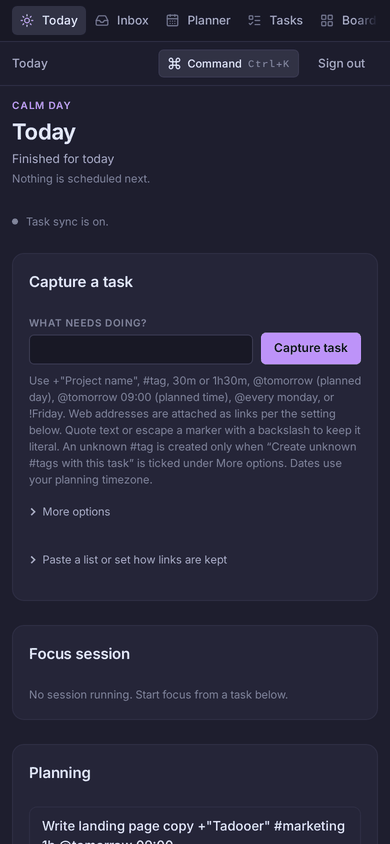
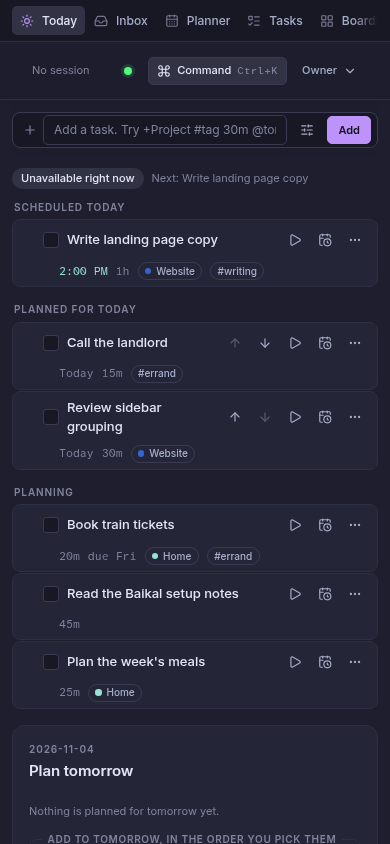
docs: describe the workspace shell, task row and add bar; phone row layout; config test for taskDelete (#194)

diff --git a/apps/web/src/styles.css b/apps/web/src/styles.css
@@ -1983,7 +1983,8 @@
   .sidebar-brand {
     position: relative;
   }
-  .sidebar-collapse {
+  /* Outranks the (0,1,1) global button:not([data-slot]) rule. */
+  .sidebar-brand .sidebar-collapse {
     margin-left: auto;
     display: inline-flex;
     align-items: center;
@@ -1998,7 +1999,7 @@
     color: var(--subtext-2);
     cursor: pointer;
   }
-  .sidebar-collapse:hover {
+  .sidebar-brand .sidebar-collapse:hover {
     background: var(--surface-0);
     color: var(--text);
   }
@@ -2188,7 +2189,7 @@
     gap: 0.125rem;
   }
 
-  .sync-dot-trigger {
+  .header .sync-dot-trigger {
     display: inline-flex;
     align-items: center;
     justify-content: center;
@@ -2201,7 +2202,7 @@
     background: none;
     cursor: pointer;
   }
-  .sync-dot-trigger:hover {
+  .header .sync-dot-trigger:hover {
     background: var(--surface-0);
   }
   .sync-dot {
@@ -2325,7 +2326,7 @@
     padding: 0.2rem 0.5rem 0.2rem 0.375rem;
     cursor: default;
   }
-  .task-row__chevron {
+  .task-row .task-row__chevron {
     width: 1rem;
     height: 1rem;
     min-height: 0;
@@ -2340,11 +2341,11 @@
     cursor: pointer;
     border-radius: var(--radius-sm);
   }
-  .task-row__chevron:hover {
+  .task-row .task-row__chevron:hover {
     color: var(--text);
     background: var(--surface-1);
   }
-  .task-row__chevron--empty {
+  .task-row .task-row__chevron--empty {
     cursor: default;
   }
   .task-row__chevron-icon {
@@ -2817,6 +2818,34 @@
     .offline-capture {
       flex-direction: column;
       align-items: stretch;
+    }
+    /* Issue #194: on a phone the title wins; metadata wraps under it and the
+       actions stay visible, since there is no hover. */
+    .task-row__main {
+      flex-wrap: wrap;
+      padding-block: 0.375rem;
+    }
+    .task-row__title {
+      flex: 1 1 8rem;
+      white-space: normal;
+      overflow-wrap: anywhere;
+    }
+    .task-row__meta {
+      flex: 1 1 100%;
+      order: 10;
+      flex-wrap: wrap;
+      white-space: normal;
+      padding-left: 2.5rem;
+      row-gap: 0.25rem;
+    }
+    .task-row__actions {
+      opacity: 1;
+    }
+    .task-row__children {
+      padding-left: 1rem;
+    }
+    .add-task-bar {
+      top: 0;
     }
 
     /* Phone widths: a long title or address wraps instead of widening the

diff --git a/packages/import-export/src/super-productivity-config.test.ts b/packages/import-export/src/super-productivity-config.test.ts
@@ -152,6 +152,8 @@ describe("globalConfig classification (ADR 0030)", () => {
         "command_bar.open": "Shift+F",
         "sync.now": "Ctrl+S",
         "navigate.settings": null,
+        // Issue #194: taskDelete maps to the selection's delete action.
+        "task.delete": "Backspace",
       },
     });
     expect(mapped?.planning).toEqual({
@@ -184,7 +186,7 @@ describe("globalConfig classification (ADR 0030)", () => {
         detail.includes("task.toggle_done collides"),
       ),
     ).toBe(true);
-    expect(mapped?.counts).toMatchObject({ shortcuts: 6, planning: 5 });
+    expect(mapped?.counts).toMatchObject({ shortcuts: 7, planning: 5 });
     const excluded = findings.filter(
       ({ code }) => code === "config_field_excluded",
     );

diff --git a/docs/design/README.md b/docs/design/README.md
@@ -1,6 +1,7 @@
 # Tadooer design system
 
-Status: adopted 2026-09-23 for the web app; identity section added 2026-10-02.
+Status: adopted 2026-09-23 for the web app; identity section added 2026-10-02;
+workspace shell, task row and add bar rules added 2026-11-03 (issue #194).
 The stylesheet `apps/web/src/styles.css` is the source of truth for values;
 `tokens.css` beside this file restates them as plain custom properties, and
 `examples/01-specimen.html` shows them without the app. The Studio brand pack
@@ -175,8 +176,61 @@ cached or empty state rather than a placeholder that never resolves.
 
 ## Component rules
 
-- Pages use `PageHeader`, `Card`, `SectionHeading`, and `EmptyState`; controls
-  use the primitives in `components/ui`.
+- The frame (issue #194) is a desktop layout: a 15rem sidebar on `--mantle`
+  that collapses to a 3rem icon rail (remembered per browser under
+  `tadooer.sidebar:collapsed`), a 2.75rem header spanning the main and
+  detail columns, the main column at 56rem, and a 22rem detail column on
+  `--surface-0` that exists only while one task is selected. Below 64rem the
+  sidebar is the scrolling row and the detail panel is a bottom `Sheet`. The
+  components are `WorkspaceShell`, `Sidebar`, `Header`, `FocusStrip`,
+  `SyncIndicator` and `TaskDetailPanel` under `components/shell`.
+- The sidebar lists Today, Inbox, Planner, Tasks, Boards and Habits, then
+  Projects and Tags as navigable contexts (`/projects/<id>`, `/tags/<id>`;
+  the Tasks list with that filter fixed and its dropdown hidden), then
+  Records and Setup (issue #175). Today and Inbox carry open-task counts;
+  every project and tag shows its swatch and count. Groups remember their
+  state under `tadooer.sidebar-group:<id>` and open while they hold the
+  current location. The command bar lists the same contexts.
+- The header holds the view title, the focus strip (title, countdown in
+  `--pink` with a 1.5px underline while running, pause, break and complete;
+  "No session" otherwise; a follower sees Take over), one sync dot coloured
+  by the worst of task sync, live updates and Baikal with the three states
+  as text in a status region and in a popover, a conflict badge only when
+  conflicts need action, the command bar trigger and the account menu.
+- Task rows (`TaskRow`) are one line at 2.25rem: a round complete toggle,
+  the title, metadata in mono (`Overdue` or planned time, estimate as
+  `45m`, `due Fri` within a week), the project chip with its swatch, up to
+  three tag chips with `+n`, and actions that appear on hover, focus or
+  selection: Start focus (a `Running` badge when the task owns the session),
+  Schedule (a popover with the time block form, only while calendar actions
+  are available), day-order arrows where a saved order exists, and a menu
+  with Edit title, Add child task, Save as template, Archive and Delete.
+  Clicking the body selects (`--primary-tint` fill, 2px `--purple` bar,
+  `aria-selected`, roving tab stop); Shift extends and Ctrl toggles; two or
+  more selected rows replace the add bar with the bulk bar (Complete,
+  Archive, Delete, Move to project), which runs the per-task writes in order
+  and names the first failure. Double-click, Enter or the menu edit the title
+  in place; Escape restores it. Children nest one level under a chevron;
+  a child whose parent is filtered out renders at top level without indent.
+- The add bar (`AddTaskBar`) is one input pinned to the top of Today, Inbox,
+  Tasks and the context routes, with More for notes, estimate, new-tag
+  consent and the markers switch. Markers are on by default while online
+  (issue #184) and remembered under `tadooer.capture:markers`; offline, the
+  bar says "Offline: plain capture". "Paste a list" opens a dialog; the
+  captured-links preference lives in Settings.
+- The detail panel shows the selected task: an in-place title, Start focus,
+  then Plan (planned day and time, time block, estimate and deadline),
+  Organize (project, tags, placement), Notes (rendered, with an edit
+  toggle), Child tasks, Checklist, Links and Recurrence (the last two need a
+  session token), and a footer with Save as template, Archive and Delete.
+  Escape or the close button clears the selection.
+- Keyboard: ArrowUp and ArrowDown move the selection through the visible
+  order, Enter edits the title, D completes, Y toggles focus, S opens the
+  schedule in the panel, Shift+N adds a child, O opens details, Delete
+  deletes, Escape clears, Shift+A focuses the add bar. Every binding is
+  owner-editable in Settings; unmodified keys stay inert in inputs.
+- Other pages use `PageHeader`, `Card`, `SectionHeading`, and `EmptyState`;
+  controls use the primitives in `components/ui`.
 - Use `Button` variants for primary, secondary, ghost, and destructive actions.
   Set `type="button"` for actions inside a form that do not submit it.
 - `NativeSelect` preserves native form submission. Named `Checkbox` controls
@@ -184,20 +238,14 @@ cached or empty state rather than a placeholder that never resolves.
 - Associate each `FieldLabel` with a unique control ID.
 - Use `Alert` for feedback and `Badge` for compact state labels. Preserve
   explicit status and alert roles where they convey asynchronous updates.
-- Task rows retain their workflow-specific layout and overdue/focus indicators.
 - The Tasks page has two sections selected by tabs in the page header and
-  kept in the URL (issue #171): **Tasks** (`/tasks`) holds the filter bar,
-  saved views, sections and the list, with recently deleted tasks behind a
-  disclosure; **Organize** (`/tasks/organize`) holds project and tag
-  creation, lifecycle and appearance, sidebar folders and recurring series.
-  Configuration never shares a scroll with the list. Settings stays for
-  owner preferences and connections, not for records.
-- The sidebar (issue #175) lists the daily views flat and keeps Records
-  (History, Worklog, Counters, Reuse) and Setup (Connections, Settings) in
-  collapsible groups that open while their view is current. Empty Today
-  sections are omitted, and the Tasks list keeps the saved view and each
-  row's child-task form behind disclosures. The route audit and screenshots
-  are in [information-architecture.md](information-architecture.md).
+  kept in the URL (issue #171): **Tasks** (`/tasks`) holds the add bar, the
+  filter bar, saved views, sections and the list, with recently deleted
+  tasks behind a disclosure; **Organize** (`/tasks/organize`) holds project
+  and tag creation, lifecycle and appearance, sidebar folders and recurring
+  series. Configuration never shares a scroll with the list. Settings stays
+  for owner preferences and connections, not for records. The route audit
+  and screenshots are in [information-architecture.md](information-architecture.md).
 - A board's Gitea project (issue #174, ADR 0054) lives in a disclosure under
   the board's header, closed until a mapping exists. Sync results list moved
   tasks and conflicts in plain sentences; a conflict is never auto-resolved.
@@ -205,8 +253,8 @@ cached or empty state rather than a placeholder that never resolves.
   data type, no library: the unplanned-tasks drawer's rows are draggable,
   planner days and board panels are drop targets with a dashed purple
   outline while hovered. Every drop has an equivalent control: the drawer's
-  select-and-place form, the day-order Up/Down buttons and the board Move
-  button, so nothing depends on a pointer. A drop on a board runs the same
+  select-and-place form, the day-order arrows on Today rows and the board
+  Move button, so nothing depends on a pointer. A drop on a board runs the same
   previewed move as the button. dnd-kit was considered and left out until a
   reorder-by-drag need appears; the native API covers placement.
 - The Planner uses a day, three-day, or week time grid with separate all-day

diff --git a/docs/design/information-architecture.md b/docs/design/information-architecture.md
@@ -22,6 +22,17 @@ The open state of each group is remembered per browser in
 flattened into the scrolling row and the toggles are hidden, so the row reads
 Today … Habits, History … Reuse, Connections, Settings.
 
+### Context routes (issue #194)
+
+Since 2026-11-03 the sidebar also lists Projects and Tags between the daily
+views and Records. A project or tag opens `/projects/<id>` or `/tags/<id>`,
+which renders the Tasks list with that filter fixed and the matching
+dropdown hidden; `/tasks` still means every task. The add bar sits at the
+top of Today, Inbox, Tasks and the context routes, and a selected row opens
+the detail panel in a third column (a bottom sheet on phones). The
+screenshots below predate that change and show the card layout; the rows
+and headings they document are now `TaskRow` lists under eyebrow headings.
+
 ## Audit by route
 
 Each route was checked for its primary action and for content that should sit
